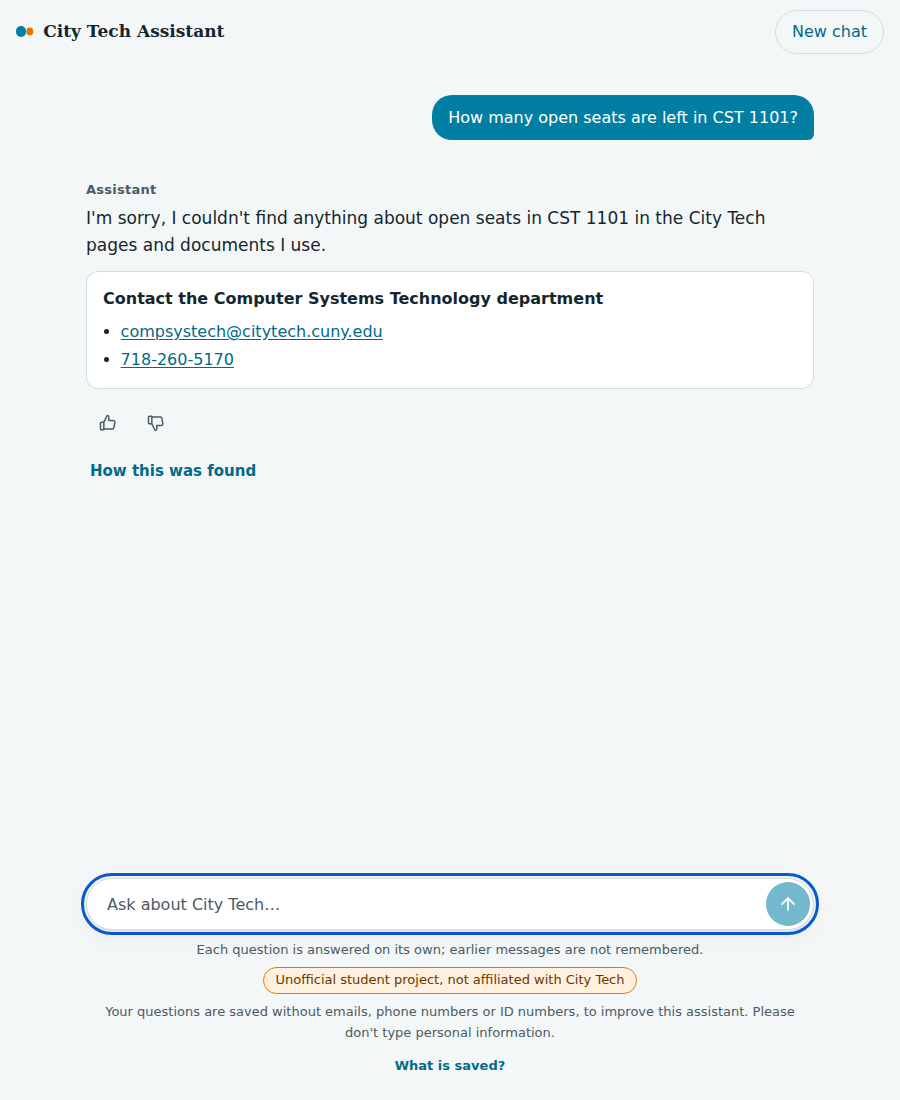
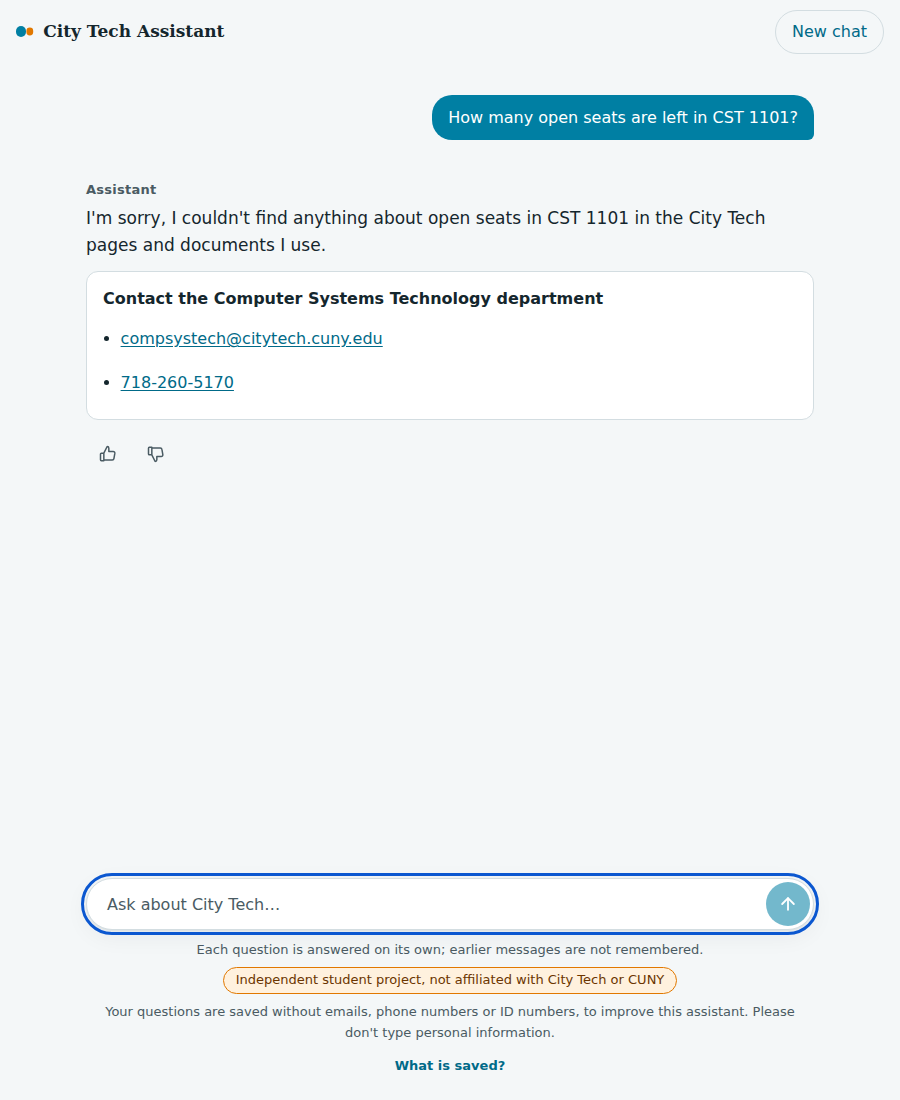
README: judge wording fixed, ?details=1 line, phone screenshot and refreshed screenshots, web test count (after final-run-frozen) Co-Authored-By: Claude Sonnet 5.5 <noreply@anthropic.com>

Changed region(s): [[0.0933, 0.2782, 0.4356, 0.4327], [0.2489, 0.8655, 0.7467, 0.9273]]

diff --git a/README.md b/README.md
@@ -30,6 +30,8 @@ Independent student portfolio project. Not affiliated with or endorsed by City T
 |---|---|---|
 | ![A calendar answer with its source](docs/images/calendar-answer.png) | ![A prerequisite chain answer](docs/images/prerequisite-chain.png) | ![An abstention with the department contact](docs/images/abstain-with-contact.png) |
 
+On a phone (390 px wide): ![A calendar answer on a phone](docs/images/phone-answer.png)
+
 Real output of the final system (16 Oct 2026); `[1]` points to the calendar row it came from:
 
 > **Thursday, January 28, 2027**: Start of Spring 2027 term. [1]
@@ -103,7 +105,7 @@ Key decisions and why:
 2. **Prerequisite chains rendered by code.** The catalog's rule text is quoted word for word, never paraphrased by a model.
 3. **Cutoff 0.59, chosen on dev only.** A sweep from 0.55 to 0.62 showed no cutoff separates a valid short question from an out-of-scope one, so I added the near-miss reply instead of moving it.
 4. **Contacts written by code.** The model never writes an email or phone number, and a contact is added only when an office clearly applies.
-5. **A different model judges.** The judge is stronger than the answer model on purpose, and each final answer was judged twice (13 of 14 agreed; the one difference was redacted contact details in the stored answer).
+5. **A different model judges.** The judge is a different model from the answer model. The 14 model-graded test answers were judged a second time (13 of 14 agreed; the one difference was redacted contact details in the stored answer).
 
 ## Safety and cost controls
 
@@ -157,6 +159,8 @@ uv run python -m cta.api                    # API on 127.0.0.1:8000 (see /health
 npm install --prefix web && npm run dev --prefix web   # page on http://127.0.0.1:3000
 ```
 
+Add `?details=1` to the page address to see the retrieval details panel ("How this was found"); it is hidden by default.
+
 The collected data is not in the repo, so this is not a one-command reproduce: to get answers you first have to rebuild it (PDF downloads, crawl, parse, validate, index). The full steps, and exactly what I verified and did not, are in [docs/running.md](docs/running.md). In a fresh clone, `uv sync`, the tests, `npm ci`, the web tests, typecheck and build, and `migrate` against an empty database all work.
 
 ## How I built and evaluated it
@@ -169,7 +173,7 @@ The collected data is not in the repo, so this is not a one-command reproduce: t
 ## Repo layout, tests, license
 
 - `src/cta/`: `crawl`, `parse`, `index` (chunks, embeddings, search), `graph` (router, calendar, chain), `api` (FastAPI and guards), `eval`, `validate`. `web/` is the Next.js page; `config/` settings and sources; `db/migrations/`; `eval/` questions and results; `scripts/`; `docs/` decisions, plans and results.
-- Tests: 2,772 Python tests (`uv run pytest`) and 110 web tests (`npm test --prefix web`). On my machine all 2,772 Python tests pass; in a fresh clone without the collected data, 2,137 pass and 635 skip with a reason (they need the data or Postgres) and none fail. `ruff check` is clean.
+- Tests: 2,772 Python tests (`uv run pytest`) and 116 web tests (`npm test --prefix web`). On my machine all 2,772 Python tests pass; in a fresh clone without the collected data, 2,137 pass and 635 skip with a reason (they need the data or Postgres) and none fail. `ruff check` is clean.
 - License: MIT for the code (see [LICENSE](LICENSE)). No crawled City Tech content is included. `eval/questions.jsonl` quotes short passages from public City Tech pages in its gold answers; the project is not affiliated with City Tech or CUNY.
 
 ## Contact
